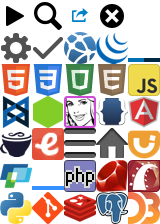
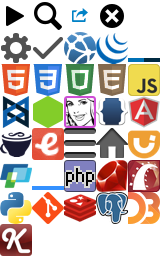
Add Knockout.js documentation

diff --git a/assets/stylesheets/global/_icons.scss b/assets/stylesheets/global/_icons.scss
@@ -4,7 +4,7 @@
   width: 1rem;
   height: 1rem;
   background-image: image-url('icons.png');
-  background-size: 5rem 7rem;
+  background-size: 5rem 8rem;
 }
 
 @media (-webkit-min-device-pixel-ratio: 1.5), (min-resolution: 144dpi) {
@@ -46,3 +46,4 @@
 ._icon-redis:before         { background-position: -2rem -6rem; }
 ._icon-postgresql:before    { background-position: -3rem -6rem; }
 ._icon-d3:before            { background-position: -4rem -6rem; }
+._icon-knockout:before      { background-position: 0 -7rem; }

diff --git a/assets/stylesheets/application.css.scss b/assets/stylesheets/application.css.scss
@@ -32,6 +32,7 @@
         'pages/d3',
         'pages/ember',
         'pages/jquery',
+        'pages/knockout',
         'pages/git',
         'pages/less',
         'pages/lodash',

diff --git a/assets/stylesheets/pages/_knockout.scss b/assets/stylesheets/pages/_knockout.scss
@@ -1,0 +1,6 @@
+._knockout {
+  > h2 { @extend %block-heading; }
+  > h3 { @extend %block-label, %label-blue; }
+  p > code { @extend %label; }
+  .liveExample { @extend %note; }
+}

diff --git a/lib/docs/filters/knockout/entries.rb b/lib/docs/filters/knockout/entries.rb
@@ -1,0 +1,38 @@
+module Docs
+  class Knockout
+    class EntriesFilter < Docs::EntriesFilter
+      NAME_BY_SLUG = {
+        'custom-bindings'                                 => 'Custom bindings',
+        'custom-bindings-controlling-descendant-bindings' => 'Descendant bindings',
+        'custom-bindings-for-virtual-elements'            => 'Virtual elements',
+        'binding-preprocessing'                           => 'Binding preprocessing',
+        'json-data'                                       => 'JSON data',
+        'extenders'                                       => 'Extending observables',
+        'unobtrusive-event-handling'                      => 'Event handling',
+        'fn'                                              => 'Custom functions' }
+
+      def get_name
+        return NAME_BY_SLUG[slug] if NAME_BY_SLUG.has_key?(slug)
+        name = at_css('h1').content.strip
+        name.sub! 'The ', ''
+        name.sub! %r{"(.+?)"}, '\1'
+        name.gsub!(/ [A-Z]/) { |str| str.downcase! }
+        name
+      end
+
+      def get_type
+        if name =~ /observable/i || slug =~ /extender/
+          'Observables'
+        elsif slug.include?('binding') && !name.end_with?('binding')
+          'Binding'
+        elsif slug.include? 'binding'
+          'Bindings'
+        elsif slug.include? 'plugin'
+          'Plugins'
+        else
+          'Miscellaneous'
+        end
+      end
+    end
+  end
+end

diff --git a/lib/docs/scrapers/knockout.rb b/lib/docs/scrapers/knockout.rb
@@ -1,0 +1,32 @@
+module Docs
+  class Knockout < UrlScraper
+    self.name = 'Knockout.js'
+    self.slug = 'knockout'
+    self.type = 'knockout'
+    self.version = '3.0.0'
+    self.base_url = 'http://knockoutjs.com/documentation/'
+    self.root_path = 'introduction.html'
+
+    html_filters.push 'knockout/clean_html', 'knockout/entries'
+
+    options[:follow_links] = ->(filter) { filter.root_page? }
+    options[:container] = ->(filter) { filter.root_page? ? '#wrapper' : '.content' }
+
+    options[:only] = %w(
+      json-data.html
+      extenders.html
+      throttle-extender.html
+      unobtrusive-event-handling.html
+      fn.html)
+
+    options[:only_patterns] = [
+      /observable/i,
+      /binding/,
+      /plugin/]
+
+    options[:attribution] = <<-HTML
+      &copy; Steven Sanderson, the Knockout.js team, and other contributors<br>
+      Licensed under the MIT License.
+    HTML
+  end
+end

diff --git a/lib/docs/filters/knockout/clean_html.rb b/lib/docs/filters/knockout/clean_html.rb
@@ -1,0 +1,30 @@
+module Docs
+  class Knockout
+    class CleanHtmlFilter < Filter
+      def call
+        root_page? ? root : other
+
+        css('pre > code').each do |node|
+          node.before(node.children).remove
+        end
+
+        doc
+      end
+
+      def root
+        @doc = at_css '.content'
+        at_css('h1').content = 'Knockout.js'
+      end
+
+      def other
+        css('h1 ~ h1').each do |node|
+          node.name = 'h2'
+        end
+
+        css('.liveExample').each do |node|
+          node.content = 'Live examples are not available on DevDocs, sorry.'
+        end
+      end
+    end
+  end
+end
